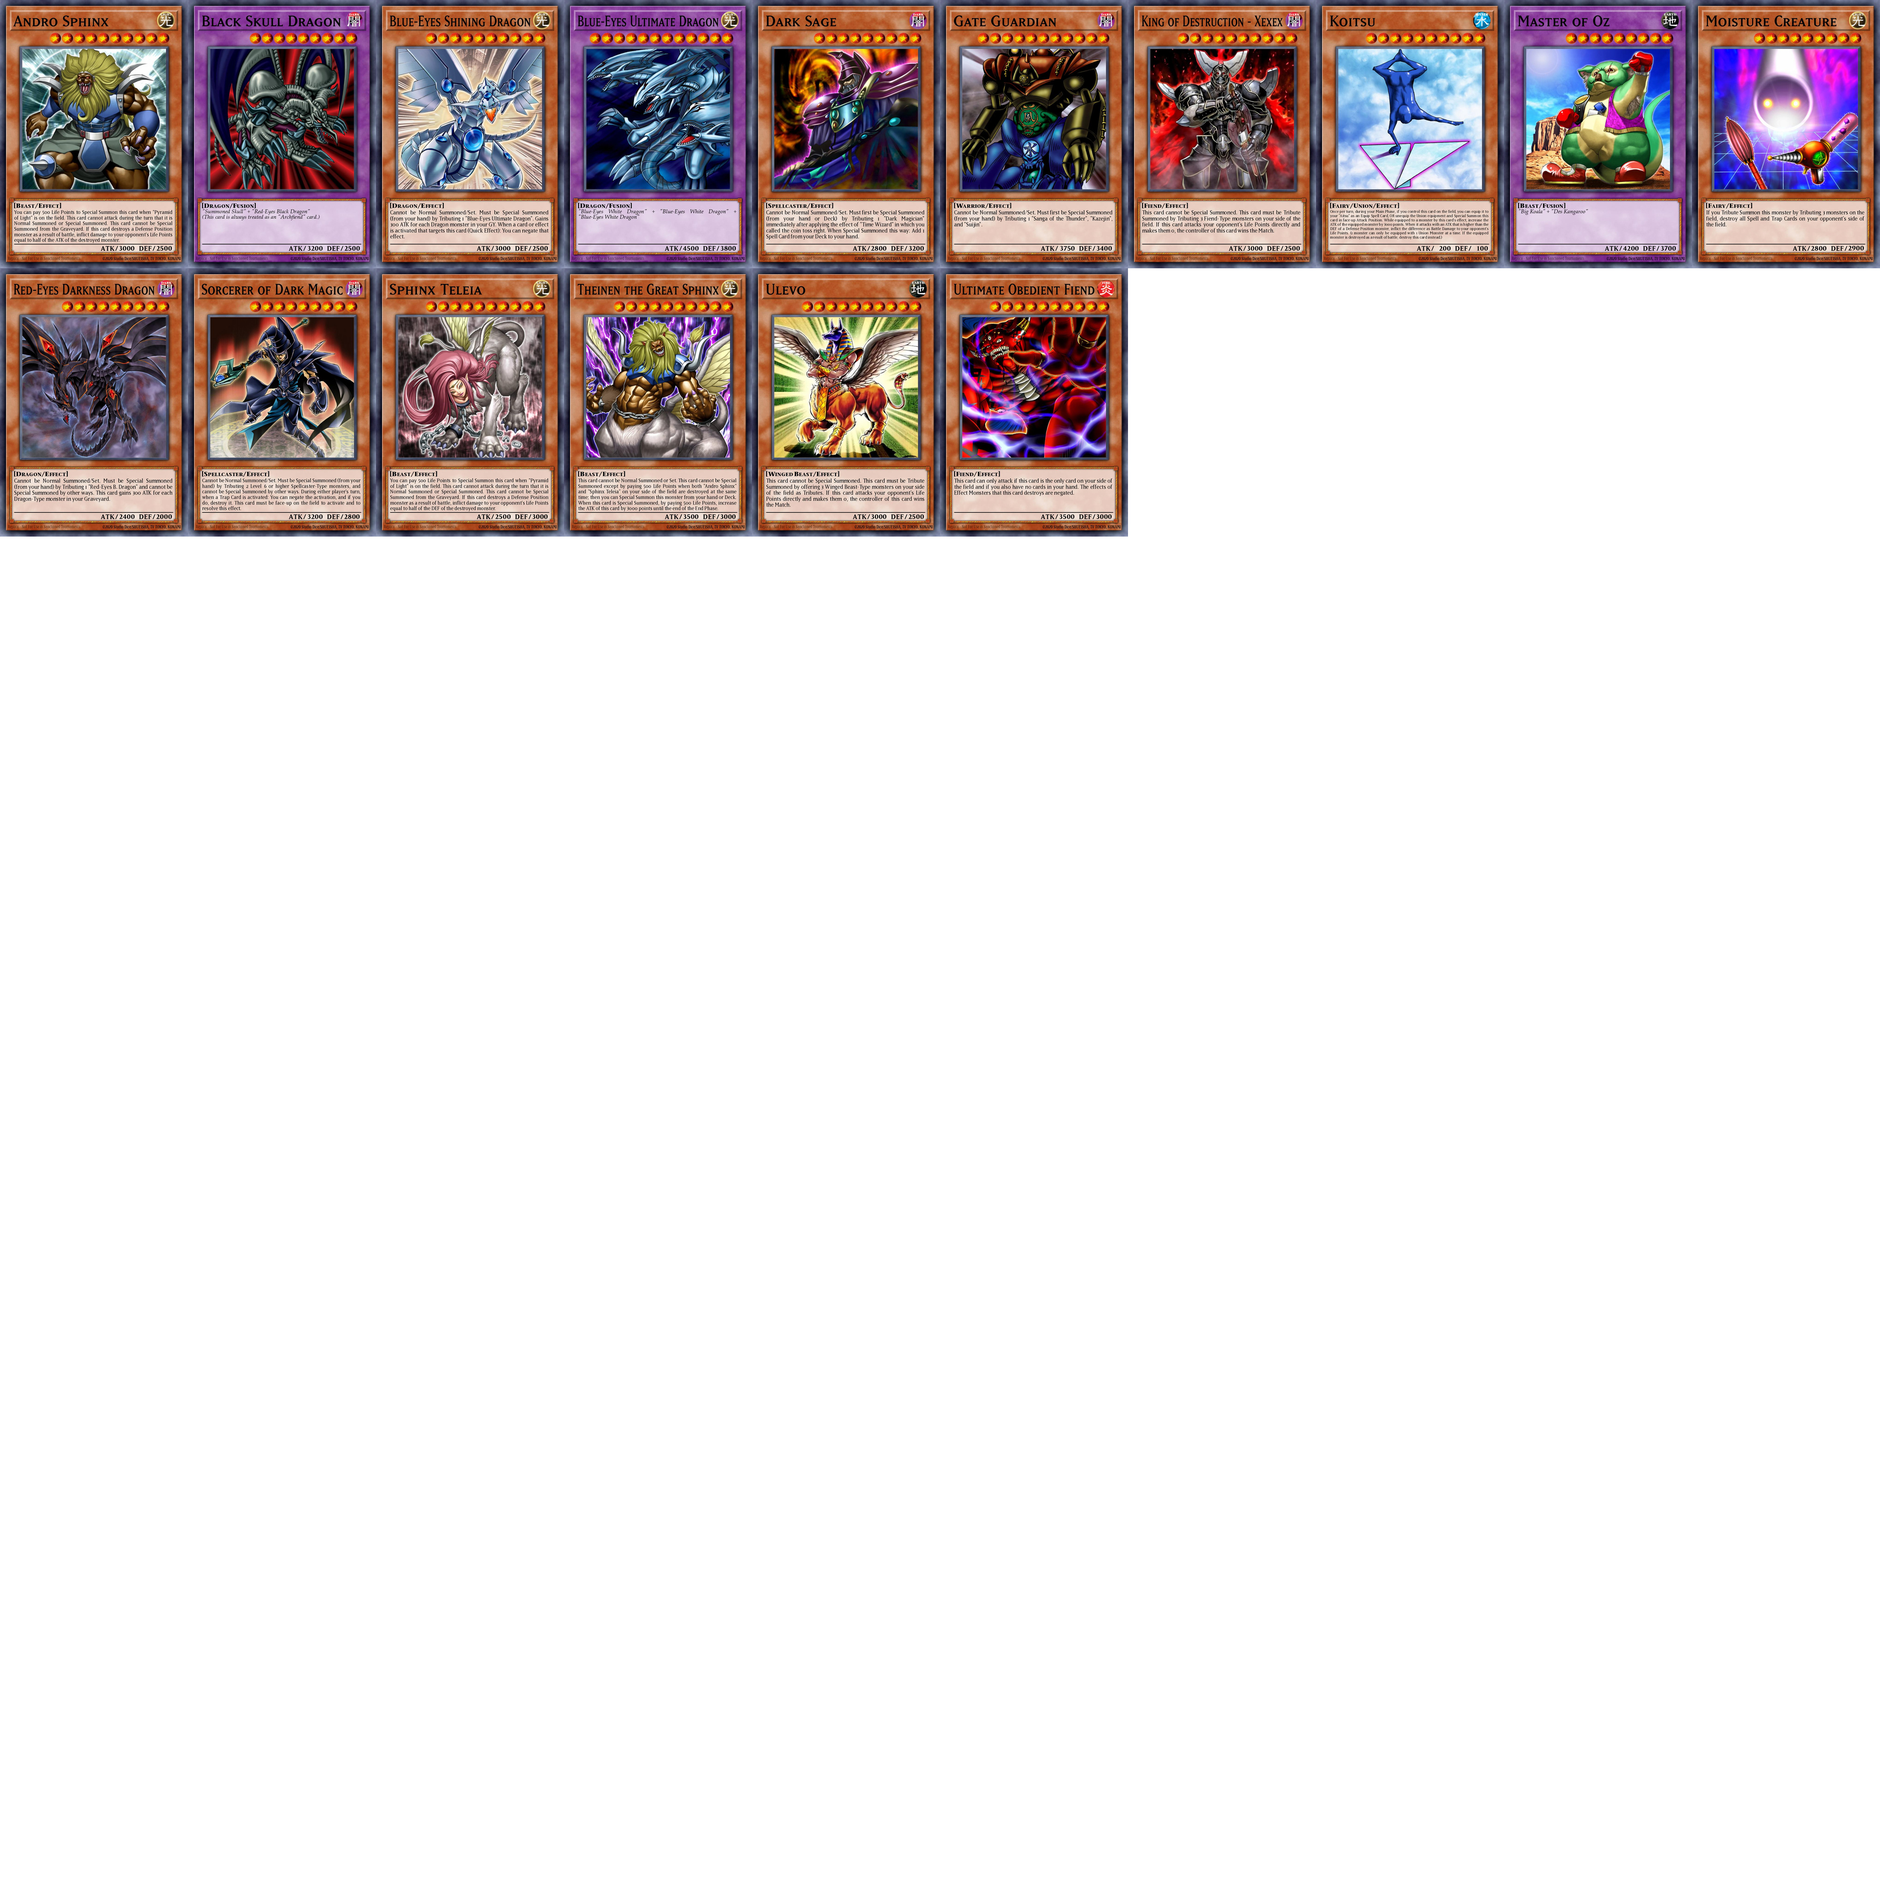
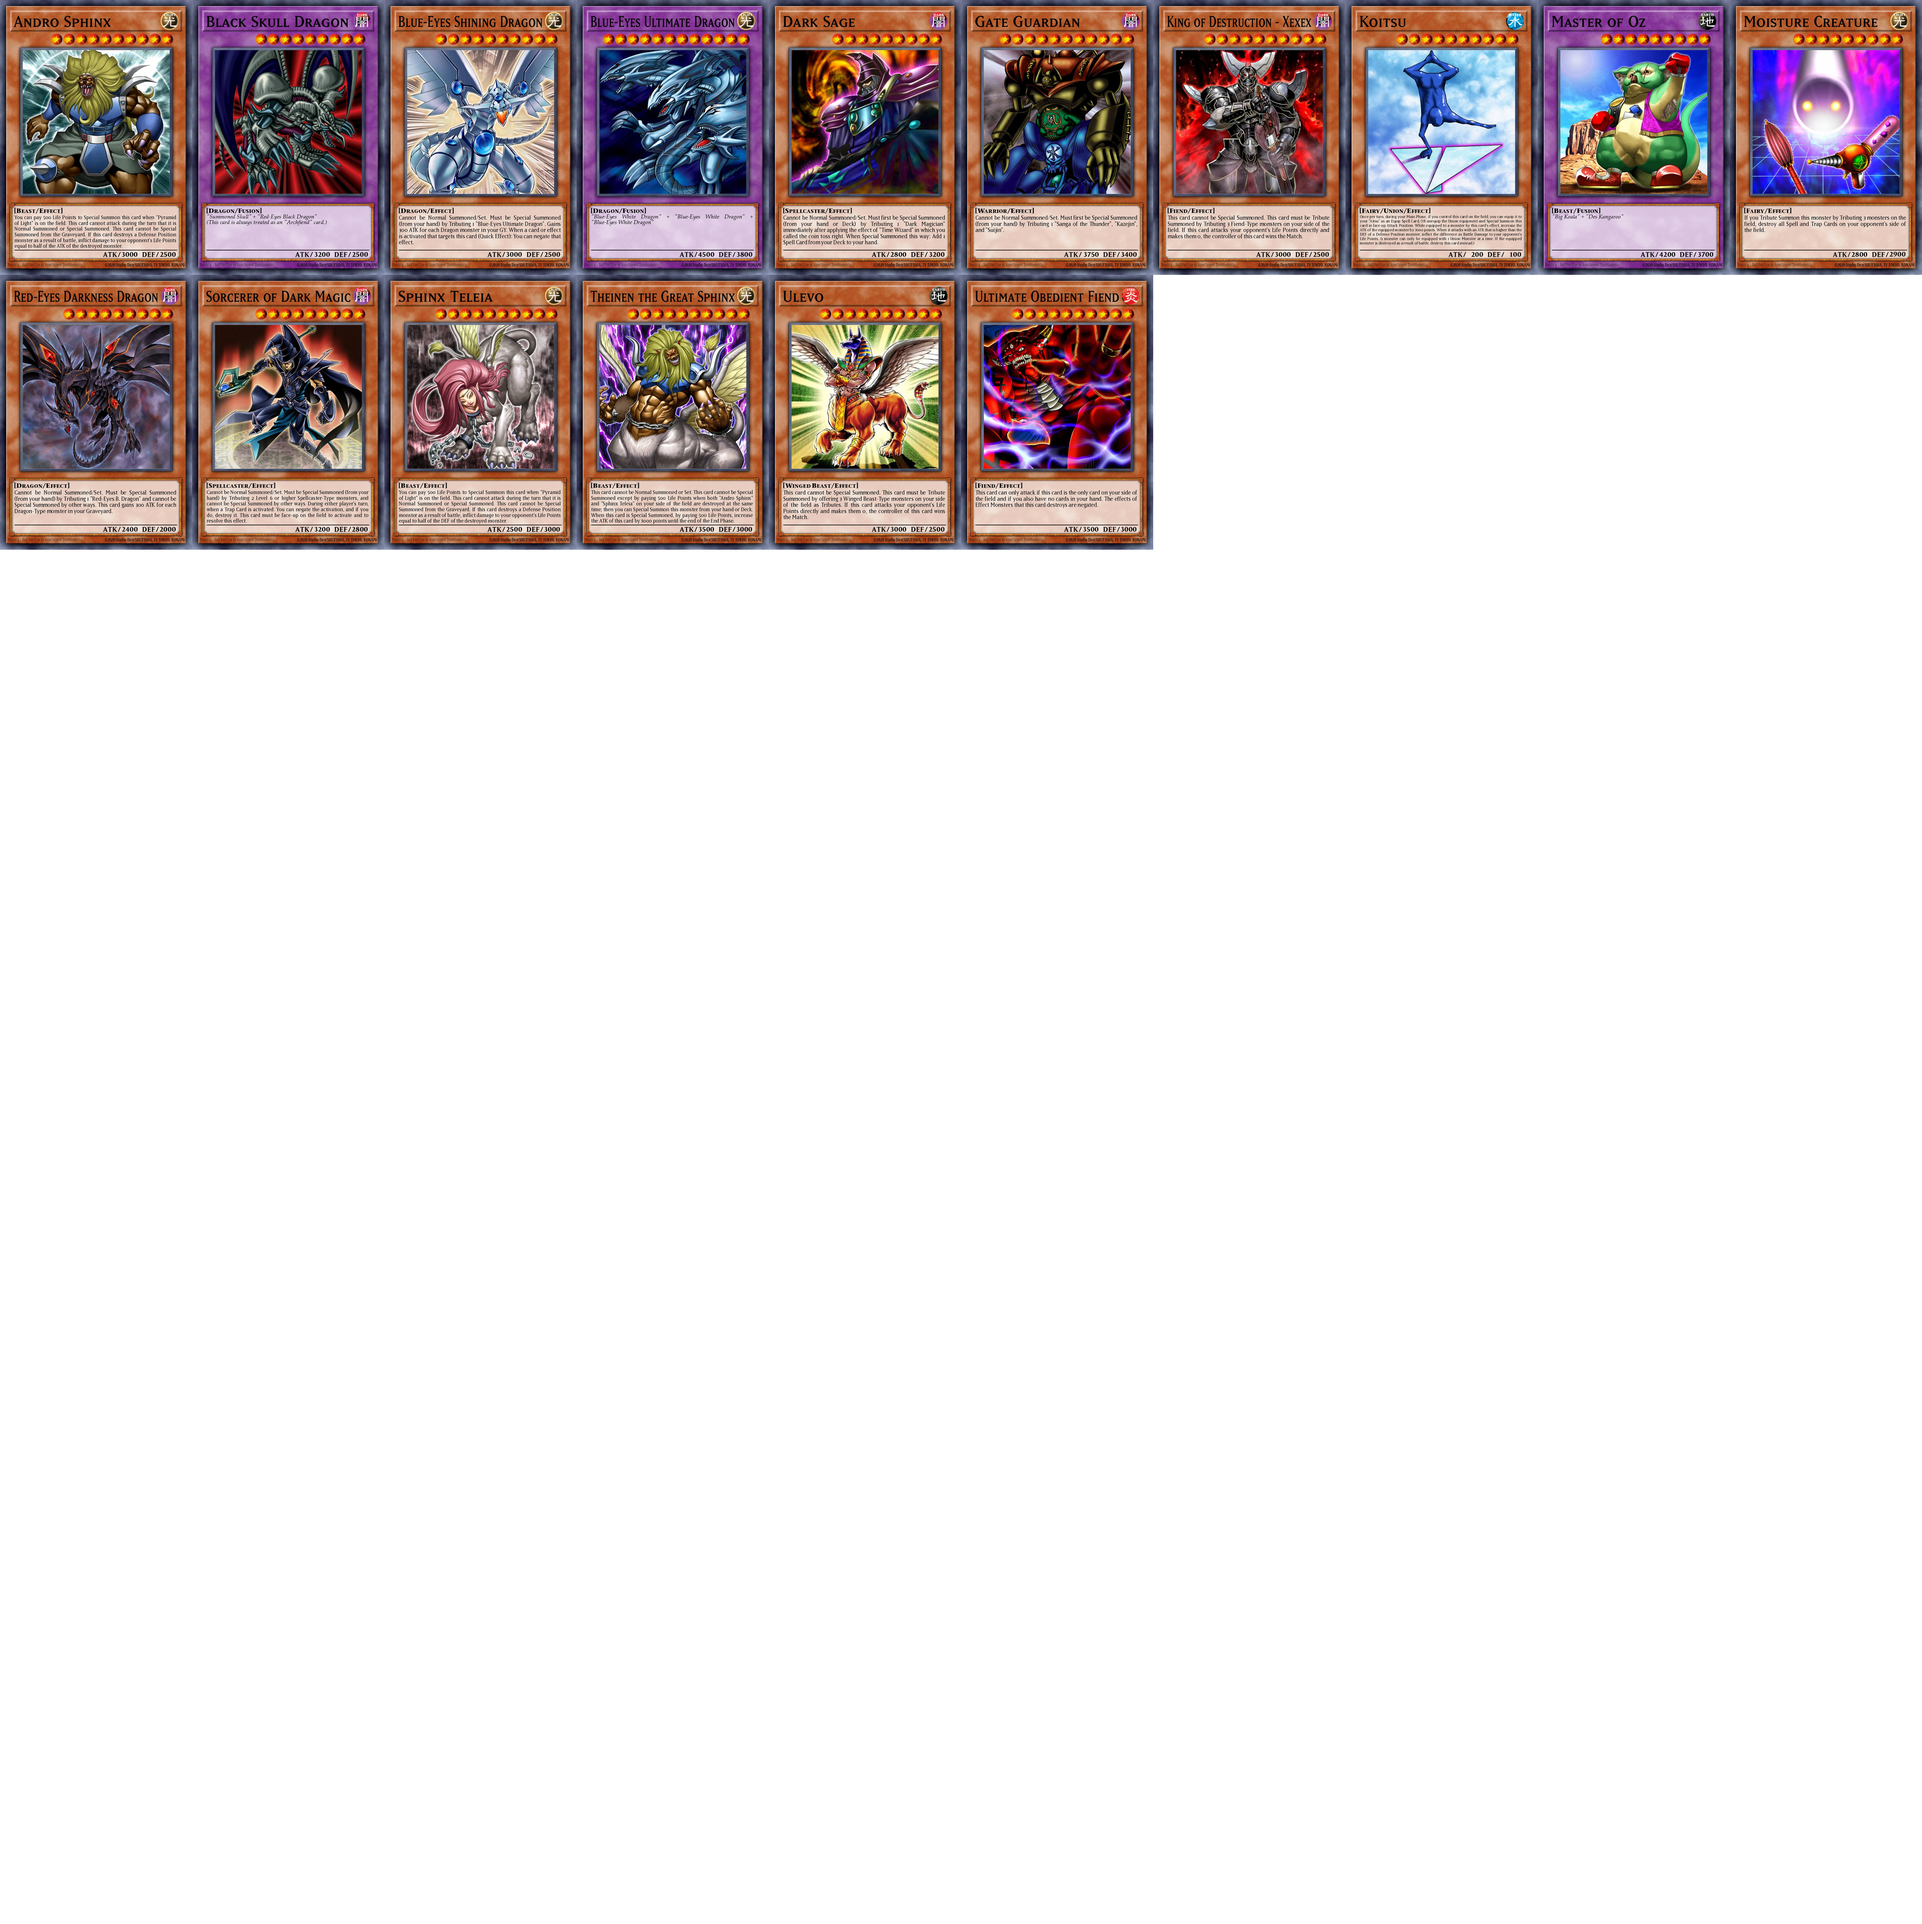
Update grid resolution to 4096x4096 pixels
- Increased card dimensions to 409x585 pixels per card
- All 27 grids now 4096x4096 pixels for power-of-2 optimization
- Maintains 10x7 grid layout with maximum TTS quality

🤖 Generated with [Claude Code](https://claude.ai/code)

diff --git a/fix_card_quality.py b/fix_card_quality.py
@@ -18,11 +18,11 @@ def create_single_card_back():
 
 def increase_card_quality():
     """Recreate grids with higher quality and larger card sizes"""
-    print("Recreating grids with 4000x4000 recommended size...")
+    print("Recreating grids with 4096x4096 size...")
     
-    # TTS recommended 4000x4000 grid settings
-    CARD_WIDTH = 400   # 4000 / 10 = 400 pixels per card
-    CARD_HEIGHT = 571  # 4000 / 7 = 571 pixels per card  
+    # 4096x4096 grid settings
+    CARD_WIDTH = 409   # 4096 / 10 = 409.6, rounded to 409 pixels per card
+    CARD_HEIGHT = 585  # 4096 / 7 = 585.1, rounded to 585 pixels per card  
     CARDS_PER_ROW = 10
     CARDS_PER_COL = 7
     
@@ -149,7 +149,7 @@ def main():
     
     print("\nAll fixes complete!")
     print("- Single card back created (not grid)")
-    print("- Card quality increased (400x571 per card, 4000x4000 grids)")  
+    print("- Card quality increased (409x585 per card, 4096x4096 grids)")  
     print("- TTS JSON files updated")
 
 if __name__ == "__main__":
